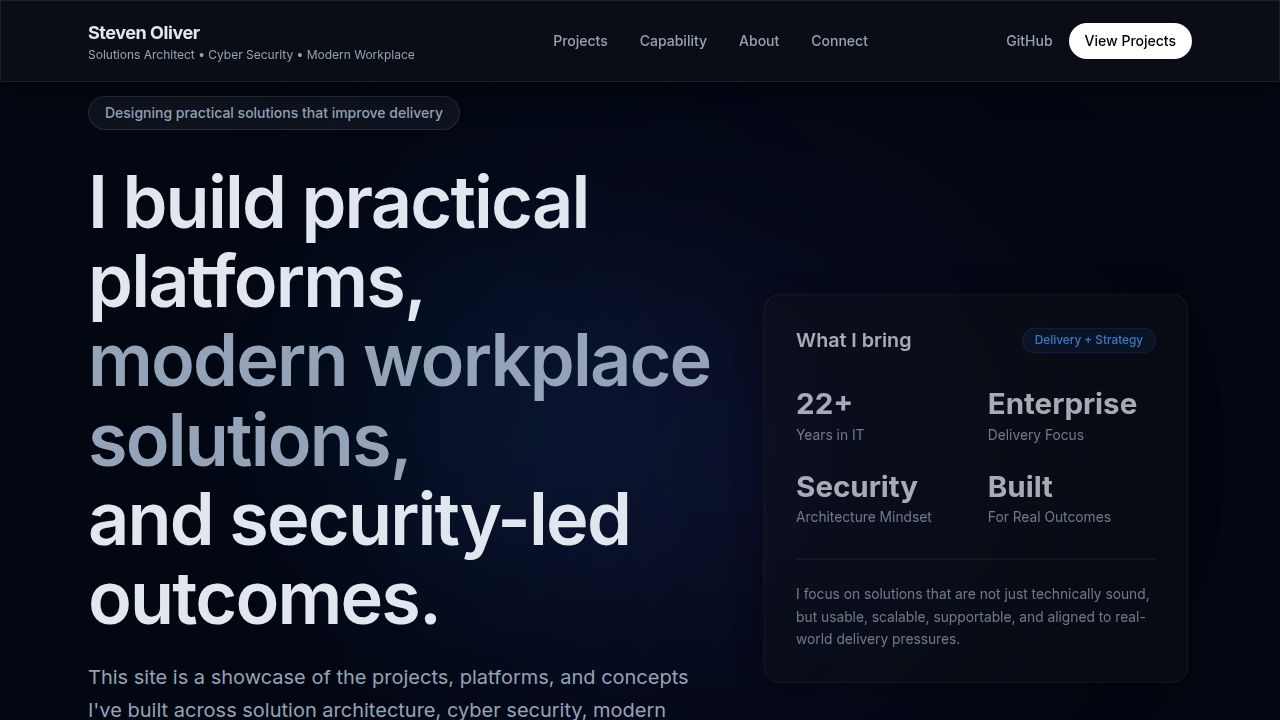
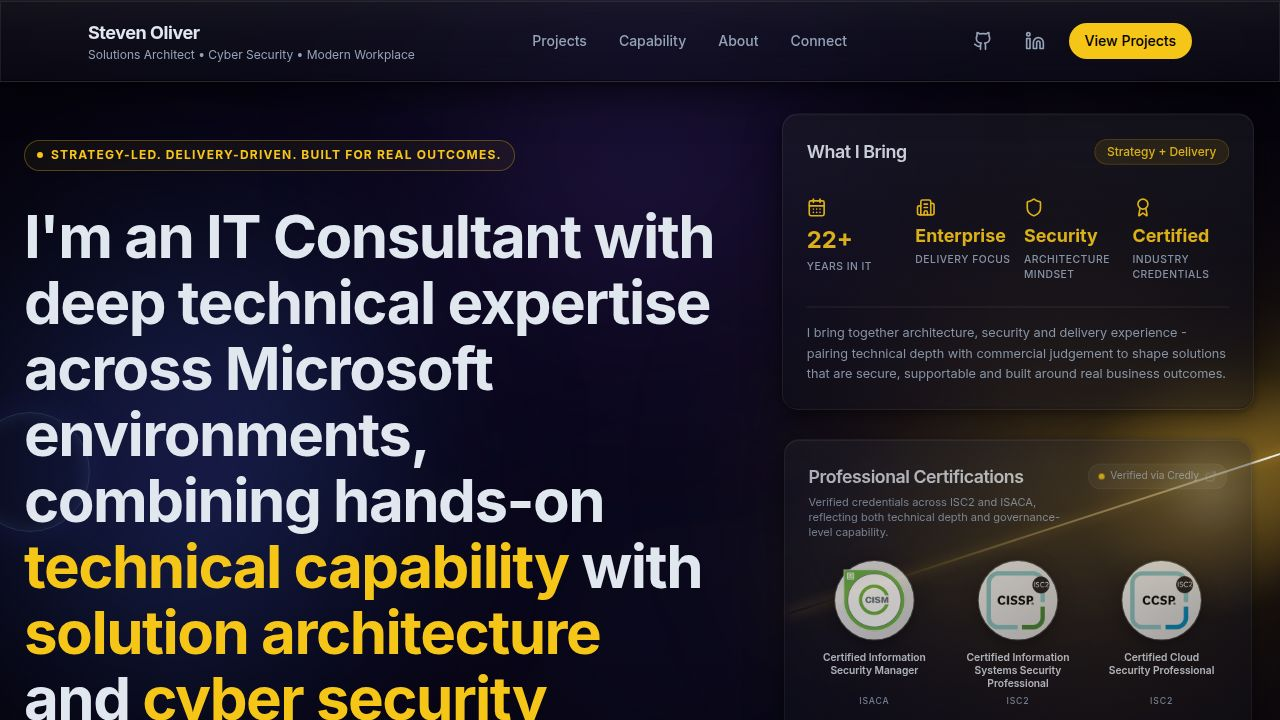
Improve layout and responsiveness across different screen sizes
Update various components with responsive adjustments, including text wrapping, padding, and container widths. Implement mobile-specific text truncation for the hero section's eyebrow, add `overflow-x-hidden` to the body and html tags, and ensure right-column cards respect viewport constraints by adding `min-w-0`. Introduce a mobile navigation menu with a hamburger icon and close button in the header.

Replit-Commit-Author: Agent
Replit-Commit-Session-Id: b7633d6e-0452-4e0e-a352-6e146cfeb568
Replit-Commit-Checkpoint-Type: full_checkpoint
Replit-Commit-Event-Id: 850eab12-ef84-4dc4-a242-7807652a6901
Replit-Commit-Screenshot-Url: https://storage.googleapis.com/screenshot-production-us-central1/a8299cbf-ba9b-4a5d-ab3c-fb938d9b761c/b7633d6e-0452-4e0e-a352-6e146cfeb568/VHeWc3T
Replit-Helium-Checkpoint-Created: true

diff --git a/artifacts/portfolio/src/components/Header.tsx b/artifacts/portfolio/src/components/Header.tsx
@@ -1,74 +1,130 @@
-import { motion } from "framer-motion";
+import { useState, useEffect } from "react";
+import { motion, AnimatePresence } from "framer-motion";
 import { LINKS } from "@/config/links";
-import { Github, Linkedin } from "lucide-react";
+import { Github, Linkedin, Menu, X } from "lucide-react";
 
 export default function Header() {
+  const [open, setOpen] = useState(false);
+
   const scrollTo = (id: string) => {
     const el = document.getElementById(id);
     if (el) el.scrollIntoView({ behavior: "smooth" });
+    setOpen(false);
   };
 
+  useEffect(() => {
+    if (open) {
+      document.body.style.overflow = "hidden";
+    } else {
+      document.body.style.overflow = "";
+    }
+    return () => {
+      document.body.style.overflow = "";
+    };
+  }, [open]);
+
+  const navItems: Array<{ id: string; label: string }> = [
+    { id: "projects", label: "Projects" },
+    { id: "capability", label: "Capability" },
+    { id: "about", label: "About" },
+    { id: "connect", label: "Connect" },
+  ];
+
   return (
-    <motion.header 
+    <motion.header
       initial={{ y: -20, opacity: 0 }}
       animate={{ y: 0, opacity: 1 }}
       transition={{ duration: 0.6, ease: "easeOut" }}
       className="fixed top-0 left-0 right-0 z-50 glass border-b-0 border-white/5 bg-background/50"
     >
-      <div className="max-w-6xl mx-auto px-6 h-20 flex items-center justify-between">
-        <div className="flex flex-col">
-          <span className="font-bold text-lg tracking-tight">Steven Oliver</span>
+      <div className="max-w-6xl mx-auto px-4 sm:px-6 h-16 sm:h-20 flex items-center justify-between">
+        <div className="flex flex-col min-w-0">
+          <span className="font-bold text-base sm:text-lg tracking-tight truncate">Steven Oliver</span>
           <span className="text-xs text-muted-foreground hidden md:block">
             Solutions Architect • Cyber Security • Modern Workplace
           </span>
         </div>
 
         <nav className="hidden md:flex items-center gap-8 text-sm font-medium text-muted-foreground">
-          <button onClick={() => scrollTo("projects")} className="relative group hover:text-foreground transition-colors">
-            Projects
-            <span className="absolute -bottom-1 left-0 w-0 h-0.5 bg-[var(--accent-yellow)] transition-all duration-300 group-hover:w-full"></span>
-          </button>
-          <button onClick={() => scrollTo("capability")} className="relative group hover:text-foreground transition-colors">
-            Capability
-            <span className="absolute -bottom-1 left-0 w-0 h-0.5 bg-[var(--accent-yellow)] transition-all duration-300 group-hover:w-full"></span>
-          </button>
-          <button onClick={() => scrollTo("about")} className="relative group hover:text-foreground transition-colors">
-            About
-            <span className="absolute -bottom-1 left-0 w-0 h-0.5 bg-[var(--accent-yellow)] transition-all duration-300 group-hover:w-full"></span>
-          </button>
-          <button onClick={() => scrollTo("connect")} className="relative group hover:text-foreground transition-colors">
-            Connect
-            <span className="absolute -bottom-1 left-0 w-0 h-0.5 bg-[var(--accent-yellow)] transition-all duration-300 group-hover:w-full"></span>
-          </button>
+          {navItems.map((item) => (
+            <button
+              key={item.id}
+              onClick={() => scrollTo(item.id)}
+              className="relative group hover:text-foreground transition-colors"
+            >
+              {item.label}
+              <span className="absolute -bottom-1 left-0 w-0 h-0.5 bg-[var(--accent-yellow)] transition-all duration-300 group-hover:w-full"></span>
+            </button>
+          ))}
         </nav>
 
-        <div className="flex items-center gap-4">
-          <a 
-            href={LINKS.GITHUB} 
-            target="_blank" 
+        <div className="flex items-center gap-2 sm:gap-4">
+          <a
+            href={LINKS.GITHUB}
+            target="_blank"
             rel="noreferrer"
             aria-label="GitHub"
-            className="hidden sm:flex items-center justify-center w-9 h-9 rounded-full text-muted-foreground hover:text-foreground hover:ring-1 hover:ring-[var(--accent-yellow)] transition-all duration-300"
+            className="flex items-center justify-center w-9 h-9 rounded-full text-muted-foreground hover:text-foreground hover:ring-1 hover:ring-[var(--accent-yellow)] transition-all duration-300"
           >
             <Github className="w-5 h-5" />
           </a>
-          <a 
-            href={LINKS.LINKEDIN} 
-            target="_blank" 
+          <a
+            href={LINKS.LINKEDIN}
+            target="_blank"
             rel="noreferrer"
             aria-label="LinkedIn"
-            className="hidden sm:flex items-center justify-center w-9 h-9 rounded-full text-muted-foreground hover:text-foreground hover:ring-1 hover:ring-[var(--accent-yellow)] transition-all duration-300"
+            className="flex items-center justify-center w-9 h-9 rounded-full text-muted-foreground hover:text-foreground hover:ring-1 hover:ring-[var(--accent-yellow)] transition-all duration-300"
           >
             <Linkedin className="w-5 h-5" />
           </a>
-          <button 
+
+          <button
             onClick={() => scrollTo("projects")}
-            className="bg-[var(--accent-yellow)] text-black px-4 py-2 rounded-full text-sm font-medium hover:bg-[var(--accent-yellow)]/90 hover:shadow-[0_0_15px_rgba(245,197,24,0.4)] transition-all duration-300"
+            className="hidden sm:inline-flex bg-[var(--accent-yellow)] text-black px-4 py-2 rounded-full text-sm font-medium hover:bg-[var(--accent-yellow)]/90 hover:shadow-[0_0_15px_rgba(245,197,24,0.4)] transition-all duration-300"
           >
             View Projects
           </button>
+
+          <button
+            onClick={() => setOpen((v) => !v)}
+            aria-label={open ? "Close menu" : "Open menu"}
+            aria-expanded={open}
+            className="md:hidden flex items-center justify-center w-9 h-9 rounded-full text-foreground hover:bg-white/5 transition-colors"
+          >
+            {open ? <X className="w-5 h-5" /> : <Menu className="w-5 h-5" />}
+          </button>
         </div>
       </div>
+
+      <AnimatePresence>
+        {open && (
+          <motion.div
+            initial={{ opacity: 0, y: -8 }}
+            animate={{ opacity: 1, y: 0 }}
+            exit={{ opacity: 0, y: -8 }}
+            transition={{ duration: 0.2 }}
+            className="md:hidden border-t border-white/5 bg-background/95 backdrop-blur-xl"
+          >
+            <nav className="max-w-6xl mx-auto px-4 py-4 flex flex-col">
+              {navItems.map((item) => (
+                <button
+                  key={item.id}
+                  onClick={() => scrollTo(item.id)}
+                  className="text-left text-base font-medium text-foreground py-3 px-2 rounded-lg hover:bg-white/5 hover:text-[var(--accent-yellow)] transition-colors"
+                >
+                  {item.label}
+                </button>
+              ))}
+              <button
+                onClick={() => scrollTo("projects")}
+                className="mt-3 bg-[var(--accent-yellow)] text-black px-5 py-3 rounded-full text-sm font-semibold hover:bg-[var(--accent-yellow)]/90 transition-all"
+              >
+                View Projects
+              </button>
+            </nav>
+          </motion.div>
+        )}
+      </AnimatePresence>
     </motion.header>
   );
 }

diff --git a/artifacts/portfolio/src/components/Hero.tsx b/artifacts/portfolio/src/components/Hero.tsx
@@ -13,7 +13,7 @@ export default function Hero() {
   };
 
   return (
-    <section className="relative flex items-start pt-28 pb-16 overflow-hidden isolate">
+    <section className="relative flex items-start pt-24 sm:pt-28 pb-12 sm:pb-16 overflow-hidden isolate">
       {/* Layer 1: Deep base wash (near-black navy) */}
       <div
         className="absolute inset-0 -z-10 pointer-events-none"
@@ -187,25 +187,28 @@ export default function Hero() {
         </svg>
       </div>
 
-      <div className="max-w-7xl mx-auto px-6 w-full grid lg:grid-cols-12 gap-12 lg:gap-16 items-start z-10">
+      <div className="max-w-7xl mx-auto px-4 sm:px-6 w-full grid lg:grid-cols-12 gap-10 lg:gap-16 items-start z-10">
         
         {/* Left Column (55%) */}
-        <div className="lg:col-span-6 xl:col-span-7 flex flex-col items-start z-10 lg:pt-7">
+        <div className="lg:col-span-6 xl:col-span-7 min-w-0 w-full flex flex-col items-start z-10 lg:pt-7">
           <motion.div
             initial={{ opacity: 0, y: 20 }}
             animate={{ opacity: 1, y: 0 }}
             transition={{ duration: 0.5 }}
-            className="flex items-center gap-2 px-3 py-1.5 rounded-full border border-[var(--accent-yellow)]/30 bg-[var(--accent-yellow)]/5 text-[0.65rem] sm:text-xs font-bold tracking-widest text-[var(--accent-yellow)] uppercase mb-8"
+            className="flex items-center gap-2 px-3 py-1.5 rounded-full border border-[var(--accent-yellow)]/30 bg-[var(--accent-yellow)]/5 text-[0.6rem] sm:text-xs font-bold tracking-widest text-[var(--accent-yellow)] uppercase mb-6 sm:mb-8 leading-snug max-w-full overflow-hidden"
           >
-            <span className="w-1.5 h-1.5 rounded-full bg-[var(--accent-yellow)]" />
-            STRATEGY-LED. DELIVERY-DRIVEN. BUILT FOR REAL OUTCOMES.
+            <span className="w-1.5 h-1.5 rounded-full bg-[var(--accent-yellow)] shrink-0" />
+            <span className="truncate">
+              <span className="sm:hidden">STRATEGY-LED · BUILT FOR OUTCOMES</span>
+              <span className="hidden sm:inline">STRATEGY-LED. DELIVERY-DRIVEN. BUILT FOR REAL OUTCOMES.</span>
+            </span>
           </motion.div>
 
           <motion.h1 
             initial={{ opacity: 0, y: 20 }}
             animate={{ opacity: 1, y: 0 }}
             transition={{ duration: 0.5, delay: 0.1 }}
-            className="text-4xl sm:text-5xl md:text-6xl font-bold tracking-tight text-foreground leading-[1.1] mb-6"
+            className="text-[1.75rem] sm:text-5xl md:text-6xl font-bold tracking-tight text-foreground leading-[1.15] sm:leading-[1.1] mb-6 break-words"
           >
             I'm an IT Consultant with deep technical expertise across Microsoft environments, combining hands-on <span className="text-[var(--accent-yellow)]">technical capability</span> with <span className="text-[var(--accent-yellow)]">solution architecture</span> and <span className="text-[var(--accent-yellow)]">cyber security</span> expertise.
           </motion.h1>
@@ -280,7 +283,7 @@ export default function Hero() {
         </div>
 
         {/* Right Column (45%) */}
-        <div className="lg:col-span-6 xl:col-span-5 z-10 w-full relative flex flex-col gap-6">
+        <div className="lg:col-span-6 xl:col-span-5 min-w-0 z-10 w-full relative flex flex-col gap-6">
           <motion.div
             initial={{ opacity: 0, scale: 0.95 }}
             animate={{ opacity: 1, scale: 1 }}

diff --git a/artifacts/portfolio/src/components/FeaturedWork.tsx b/artifacts/portfolio/src/components/FeaturedWork.tsx
@@ -31,7 +31,7 @@ const projects = [
 export default function FeaturedWork() {
   return (
     <section id="projects" className="py-16 relative z-10">
-      <div className="max-w-6xl mx-auto px-6">
+      <div className="max-w-6xl mx-auto px-4 sm:px-6">
         
         <div className="mb-10">
           <motion.div 
@@ -69,7 +69,7 @@ export default function FeaturedWork() {
               whileInView={{ opacity: 1, y: 0 }}
               viewport={{ once: true, margin: "-100px" }}
               transition={{ duration: 0.5, delay: index * 0.1 }}
-              className="glass rounded-2xl p-8 md:p-10 group relative overflow-hidden flex flex-col md:flex-row md:items-center justify-between gap-8 hover:bg-white/[0.04] hover:-translate-y-1 hover:border-[var(--accent-yellow)]/30 hover:shadow-[0_4px_20px_rgba(245,197,24,0.05)] transition-all duration-300"
+              className="glass rounded-2xl p-6 sm:p-8 md:p-10 group relative overflow-hidden flex flex-col md:flex-row md:items-center justify-between gap-6 md:gap-8 hover:bg-white/[0.04] hover:-translate-y-1 hover:border-[var(--accent-yellow)]/30 hover:shadow-[0_4px_20px_rgba(245,197,24,0.05)] transition-all duration-300"
             >
               <div className="flex-1">
                 <div className="flex flex-wrap items-center gap-3 mb-4">

diff --git a/artifacts/portfolio/src/components/Connect.tsx b/artifacts/portfolio/src/components/Connect.tsx
@@ -5,14 +5,14 @@ import { LINKS } from "@/config/links";
 export default function Connect() {
   return (
     <section id="connect" className="py-16 relative z-10">
-      <div className="max-w-6xl mx-auto px-6"><div className="max-w-4xl mx-auto text-center">
+      <div className="max-w-6xl mx-auto px-4 sm:px-6"><div className="max-w-4xl mx-auto text-center">
         
         <motion.div
           initial={{ opacity: 0, scale: 0.95 }}
           whileInView={{ opacity: 1, scale: 1 }}
           viewport={{ once: true }}
           transition={{ duration: 0.5 }}
-          className="glass rounded-3xl p-12 md:p-16 relative overflow-hidden"
+          className="glass rounded-3xl p-8 sm:p-12 md:p-16 relative overflow-hidden"
         >
           <div className="absolute top-0 left-1/2 -translate-x-1/2 w-full h-full max-w-[500px] bg-blue-500/20 blur-[100px] pointer-events-none" />
           

diff --git a/artifacts/portfolio/src/components/CapabilityList.tsx b/artifacts/portfolio/src/components/CapabilityList.tsx
@@ -12,8 +12,8 @@ const capabilities = [
 export default function CapabilityList() {
   return (
     <section className="py-16 relative z-10 bg-black/20 border-y border-white/5">
-      <div className="max-w-6xl mx-auto px-6">
-        <div className="grid md:grid-cols-12 gap-12 items-center">
+      <div className="max-w-6xl mx-auto px-4 sm:px-6">
+        <div className="grid md:grid-cols-12 gap-8 md:gap-12 items-center">
           
           <div className="md:col-span-5">
             <motion.div 

diff --git a/artifacts/portfolio/src/App.tsx b/artifacts/portfolio/src/App.tsx
@@ -22,7 +22,7 @@ const queryClient = new QueryClient();
 
 function Home() {
   return (
-    <div className="min-h-screen bg-background text-foreground flex flex-col selection:bg-blue-500/30">
+    <div className="min-h-screen bg-background text-foreground flex flex-col selection:bg-blue-500/30 overflow-x-hidden">
       <Header />
       <main className="flex-1 flex flex-col">
         <Hero />

diff --git a/artifacts/portfolio/src/components/CapabilityPillars.tsx b/artifacts/portfolio/src/components/CapabilityPillars.tsx
@@ -35,7 +35,7 @@ const pillars = [
 export default function CapabilityPillars() {
   return (
     <section id="capability" className="py-16 relative z-10">
-      <div className="max-w-6xl mx-auto px-6">
+      <div className="max-w-6xl mx-auto px-4 sm:px-6">
         <motion.div 
           initial={{ opacity: 0, y: 20 }}
           whileInView={{ opacity: 1, y: 0 }}

diff --git a/artifacts/portfolio/src/components/About.tsx b/artifacts/portfolio/src/components/About.tsx
@@ -3,7 +3,7 @@ import { motion } from "framer-motion";
 export default function About() {
   return (
     <section id="about" className="py-16 relative z-10">
-      <div className="max-w-6xl mx-auto px-6">
+      <div className="max-w-6xl mx-auto px-4 sm:px-6">
         
         <motion.div 
           initial={{ opacity: 0, y: 20 }}

diff --git a/artifacts/portfolio/src/index.css b/artifacts/portfolio/src/index.css
@@ -202,6 +202,10 @@
   body {
     @apply font-sans antialiased bg-background text-foreground selection:bg-primary/30;
     position: relative;
+    overflow-x: hidden;
+  }
+  html {
+    overflow-x: hidden;
   }
   body::before {
     content: '';
